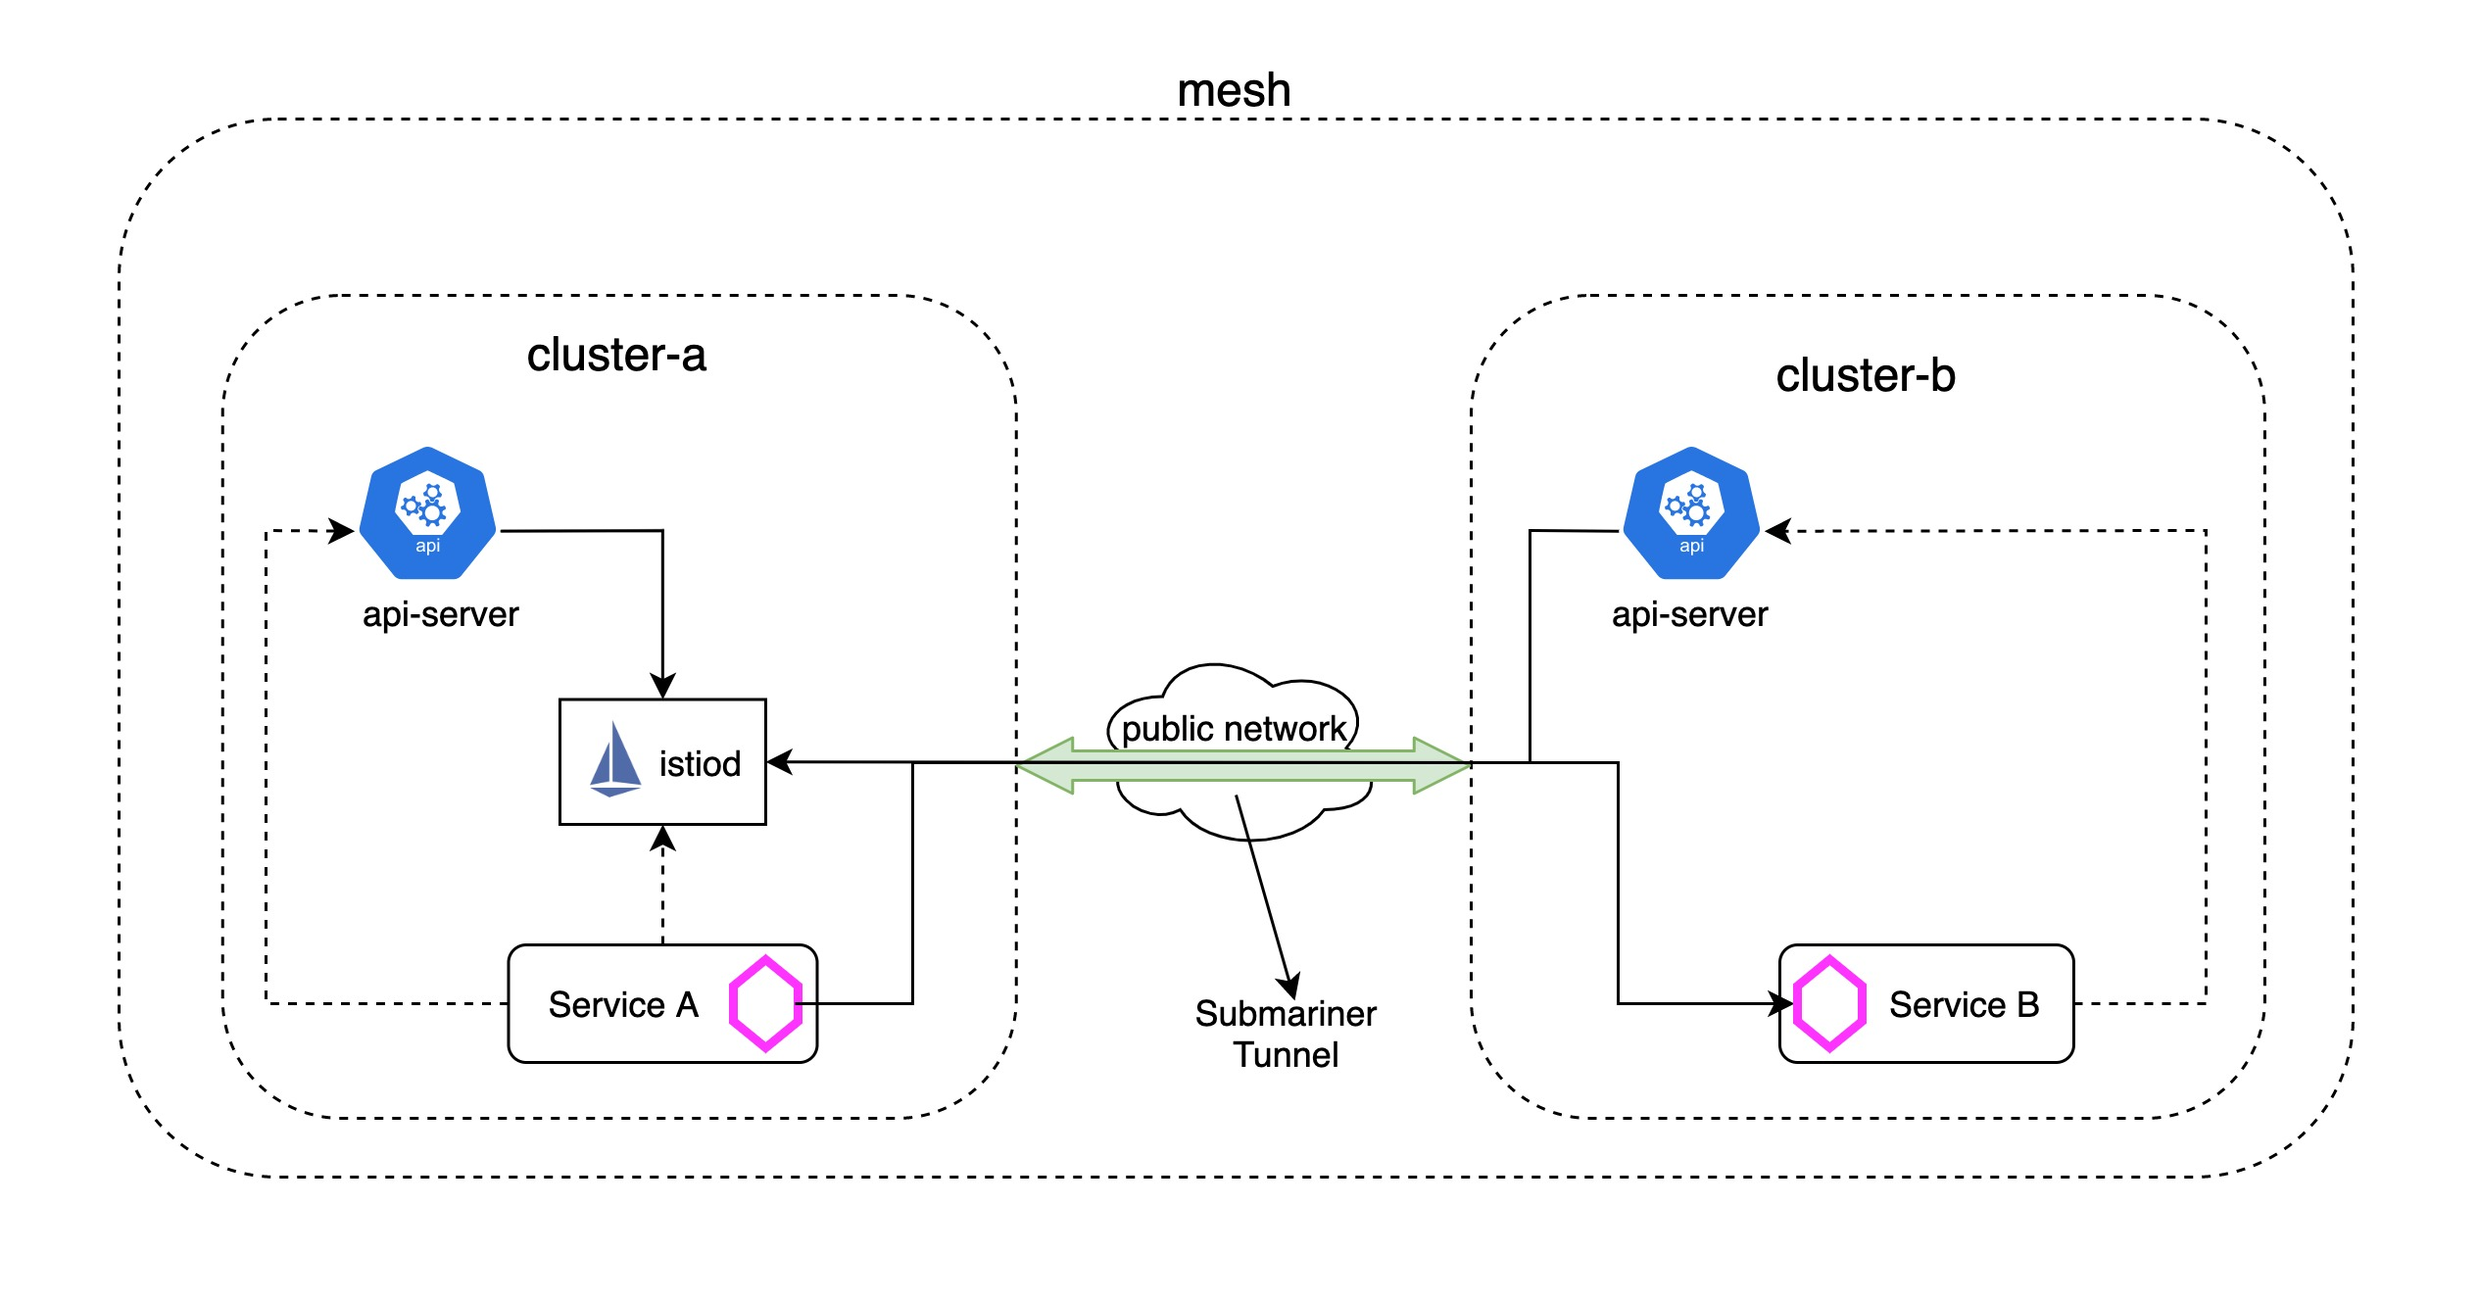
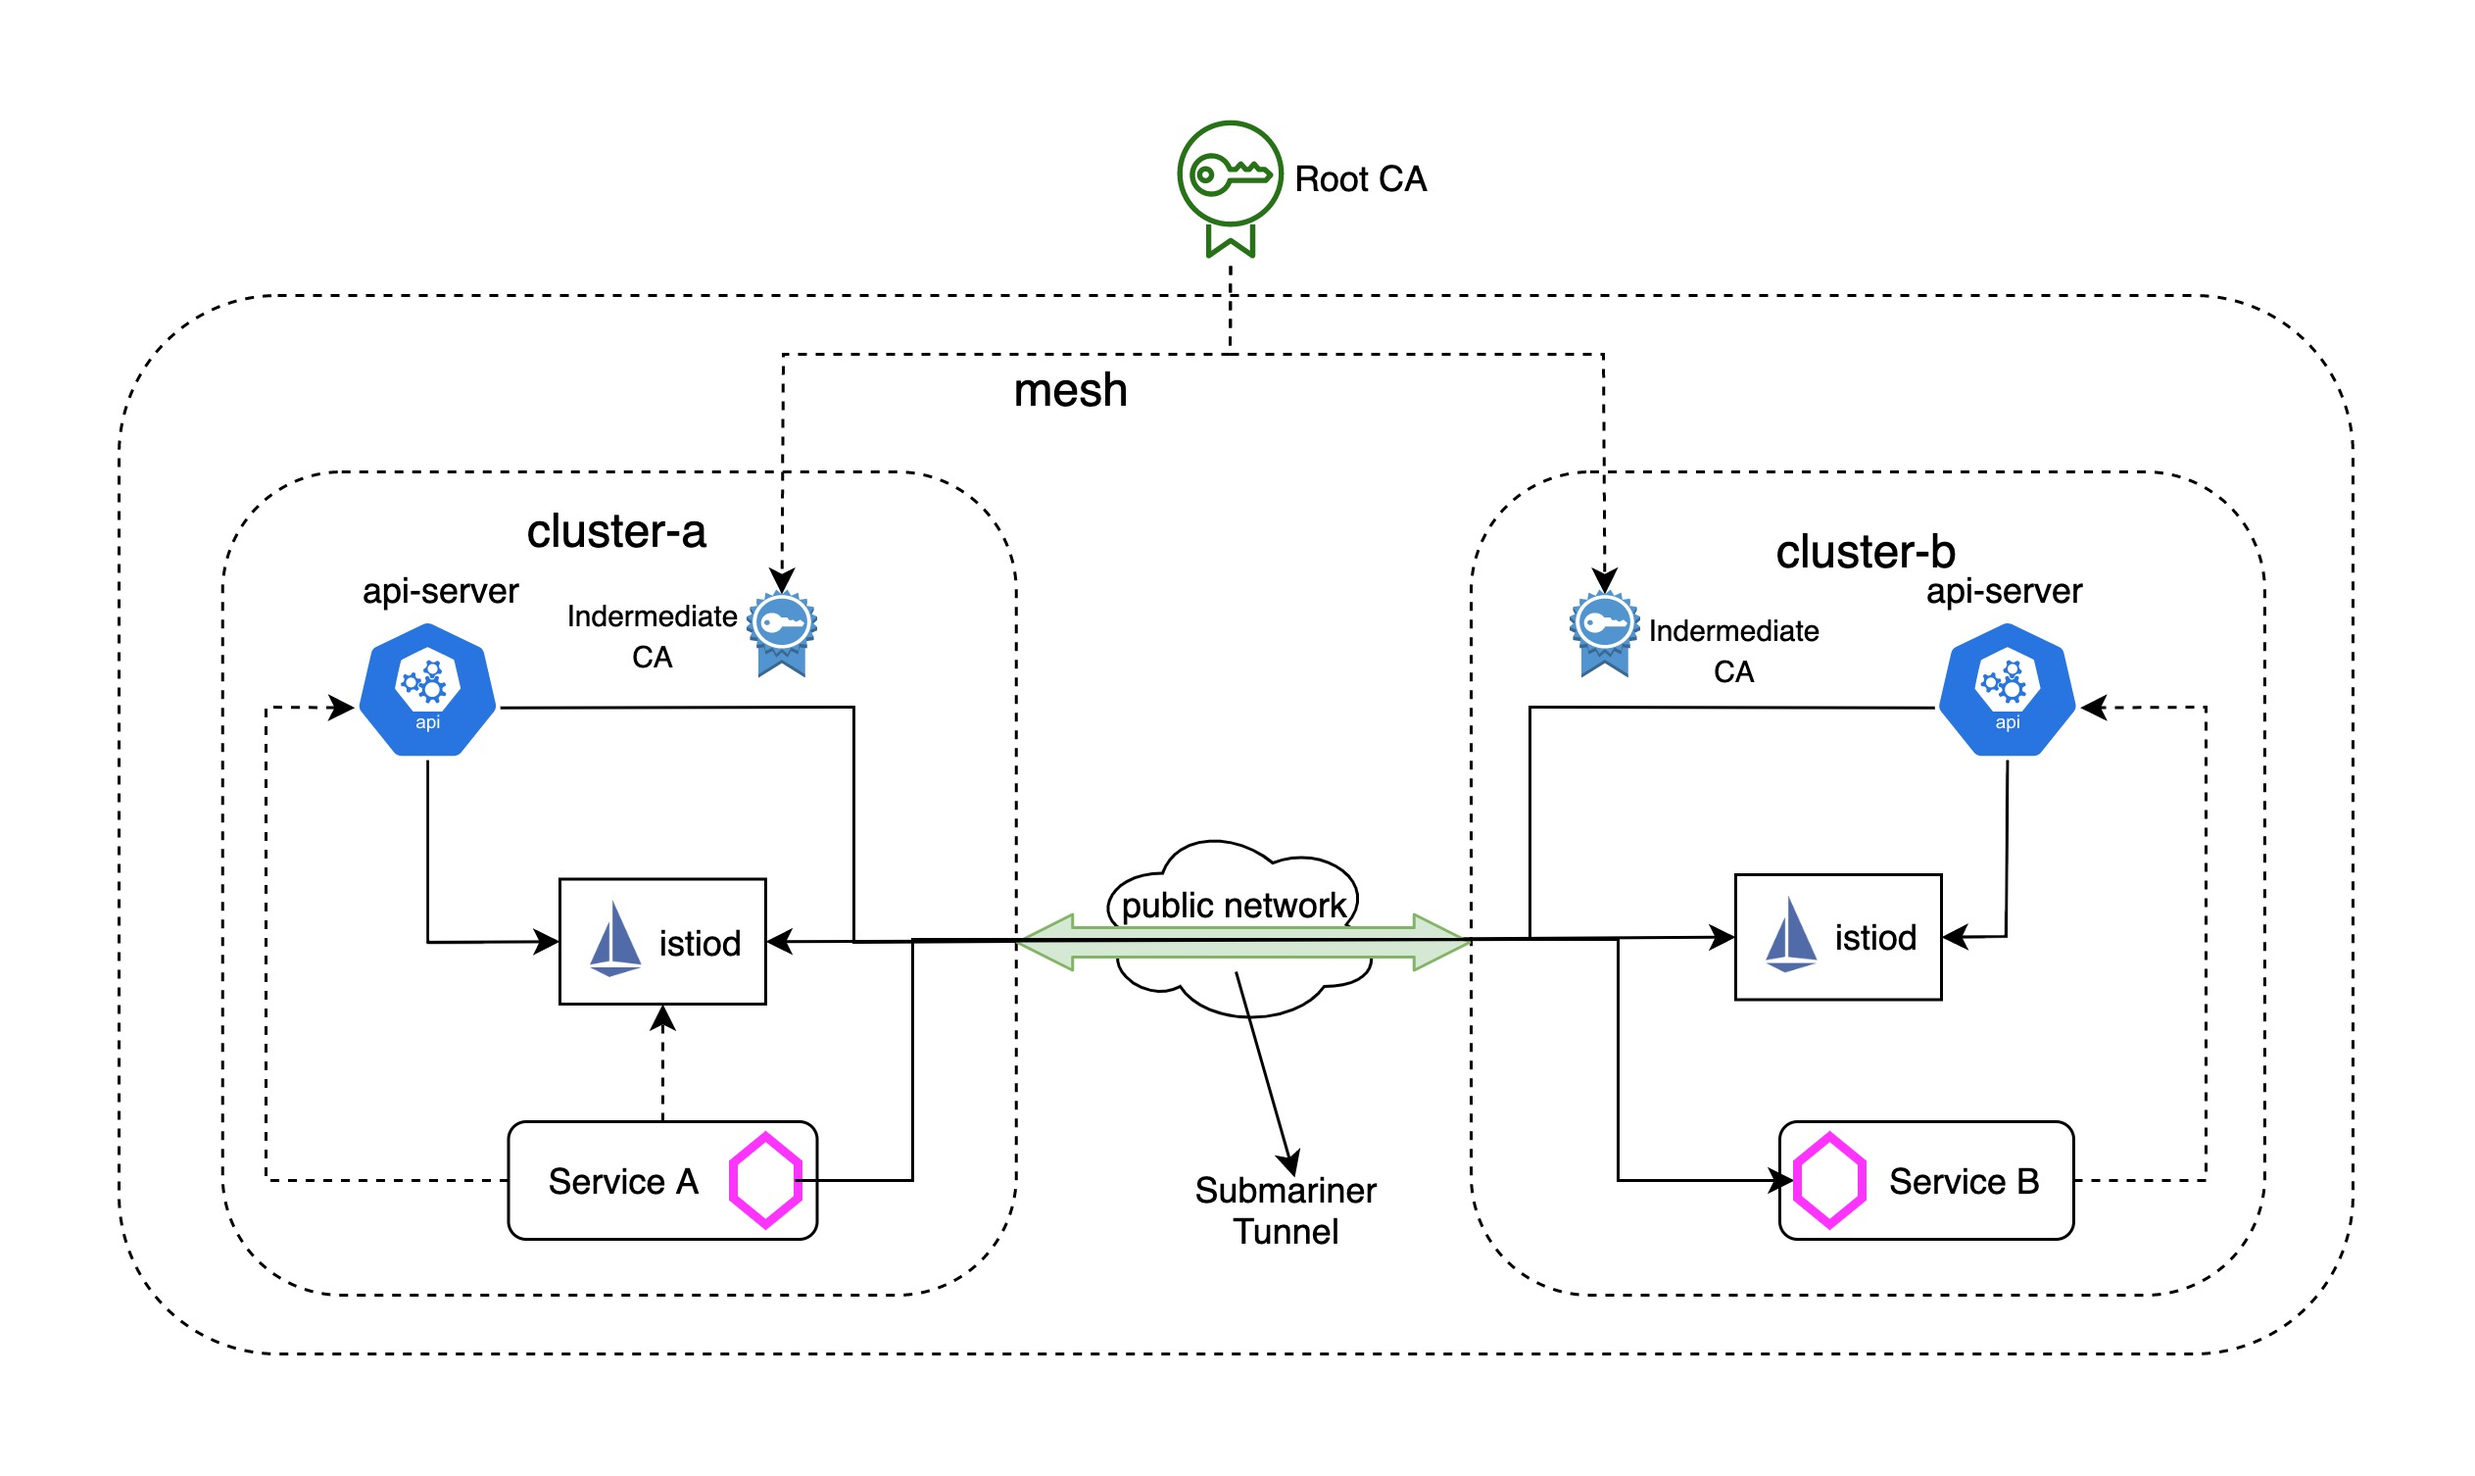
add doc for external istiod setup with submariner.

diff --git a/Istio/setup-external-istiod-with-submariner.md b/Istio/setup-external-istiod-with-submariner.md
@@ -1,0 +1,53 @@
+# Set up External Istiod with Submariner
+
+## TL;DR
+
+If you have't read the [last blog](./setup-istio-multicluster-with-submariner.md) about how to set up istio multicluster with submariner, please go through it before starting. In this blog, we will see how to set up external istiod in one central cluster and share it to the other microservices deployed among othere clusters.
+
+![setup-external-istiod-with-submariner](./images/setup-external-istiod-with-submariner.jpg)
+
+## Prerequisites
+
+Before we begin external istiod installation, we need to prepare three openshift clusters and deploy submariner for interconnection between the three clusters by following the [steps](https://submariner.io/getting-started/quickstart/openshift/aws/). To make it cleaner, we will create the following three clusters `cluster-a`, `cluster-b` and `cluster-c` with different IP CIDR ranges:
+
+| Cluster | Pod CIDR | Service CIDR |
+| --- | --- | --- |
+| cluster-a | 10.128.0.0/14 | 172.30.0.0/16 |
+| cluster-b | 10.132.0.0/14 | 172.31.0.0/16 |
+| cluster-b | 10.136.0.0/14 | 172.32.0.0/16 |
+
+For submariner installation with Service Discovery, we use `cluster-a` as broker and then join `cluster-a`, `cluster-b` and `cluster-c` to the broker. After you deploy the submariner, be sure to verify it is working with `subctl`:
+
+```
+export KUBECONFIG=cluster-a/auth/kubeconfig:cluster-b/auth/kubeconfig:cluster-c/auth/kubeconfig
+subctl verify --kubecontexts cluster-a,cluster-b,cluster-c --only service-discovery,connectivity --verbose
+```
+
+In addition, we also need to follow these [instructions](https://istio.io/latest/docs/setup/platform-setup/openshift/) to update security configurations for the two openshift clusters before deploying istio.
+
+## Mesh Operator Steps
+
+A mesh operator is responsible for installing and managing the external Istio control plane on the central cluster. This includes exporting the istiod service on the cebtral cluster, which allows the remote cluster to access the control plane, and installing the sidecar injector webhook configuration on the remote cluster so that it will use the external control plane.
+
+```
+cat <<EOF > remote-config-cluster.yaml
+apiVersion: install.istio.io/v1alpha1
+kind: IstioOperator
+metadata:
+  namespace: external-istiod
+spec:
+  profile: external
+  components:
+    base:
+      enabled: true
+  values:
+    global:
+      istioNamespace: external-istiod
+    pilot:
+      configMap: true
+    istiodRemote:
+      injectionURL: https://${EXTERNAL_ISTIOD_ADDR}:15017/inject/:ENV:cluster=${REMOTE_CLUSTER_NAME}:ENV:net=network1
+    base:
+      validationURL: https://${EXTERNAL_ISTIOD_ADDR}:15017/validate
+EOF
+```
